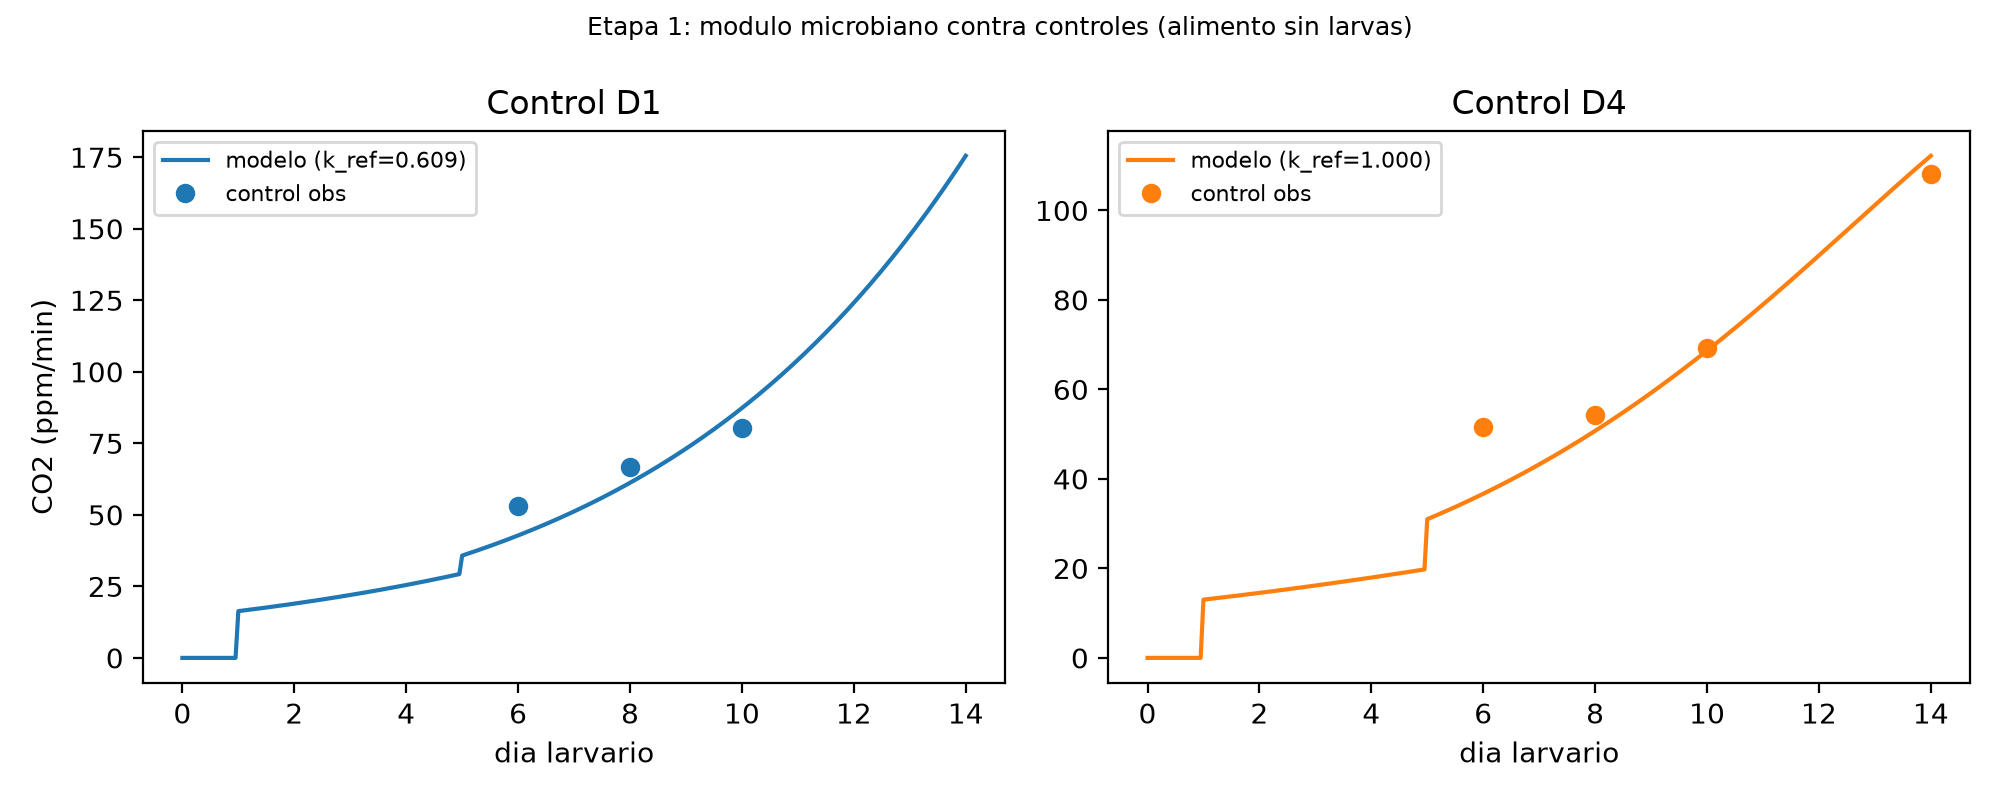
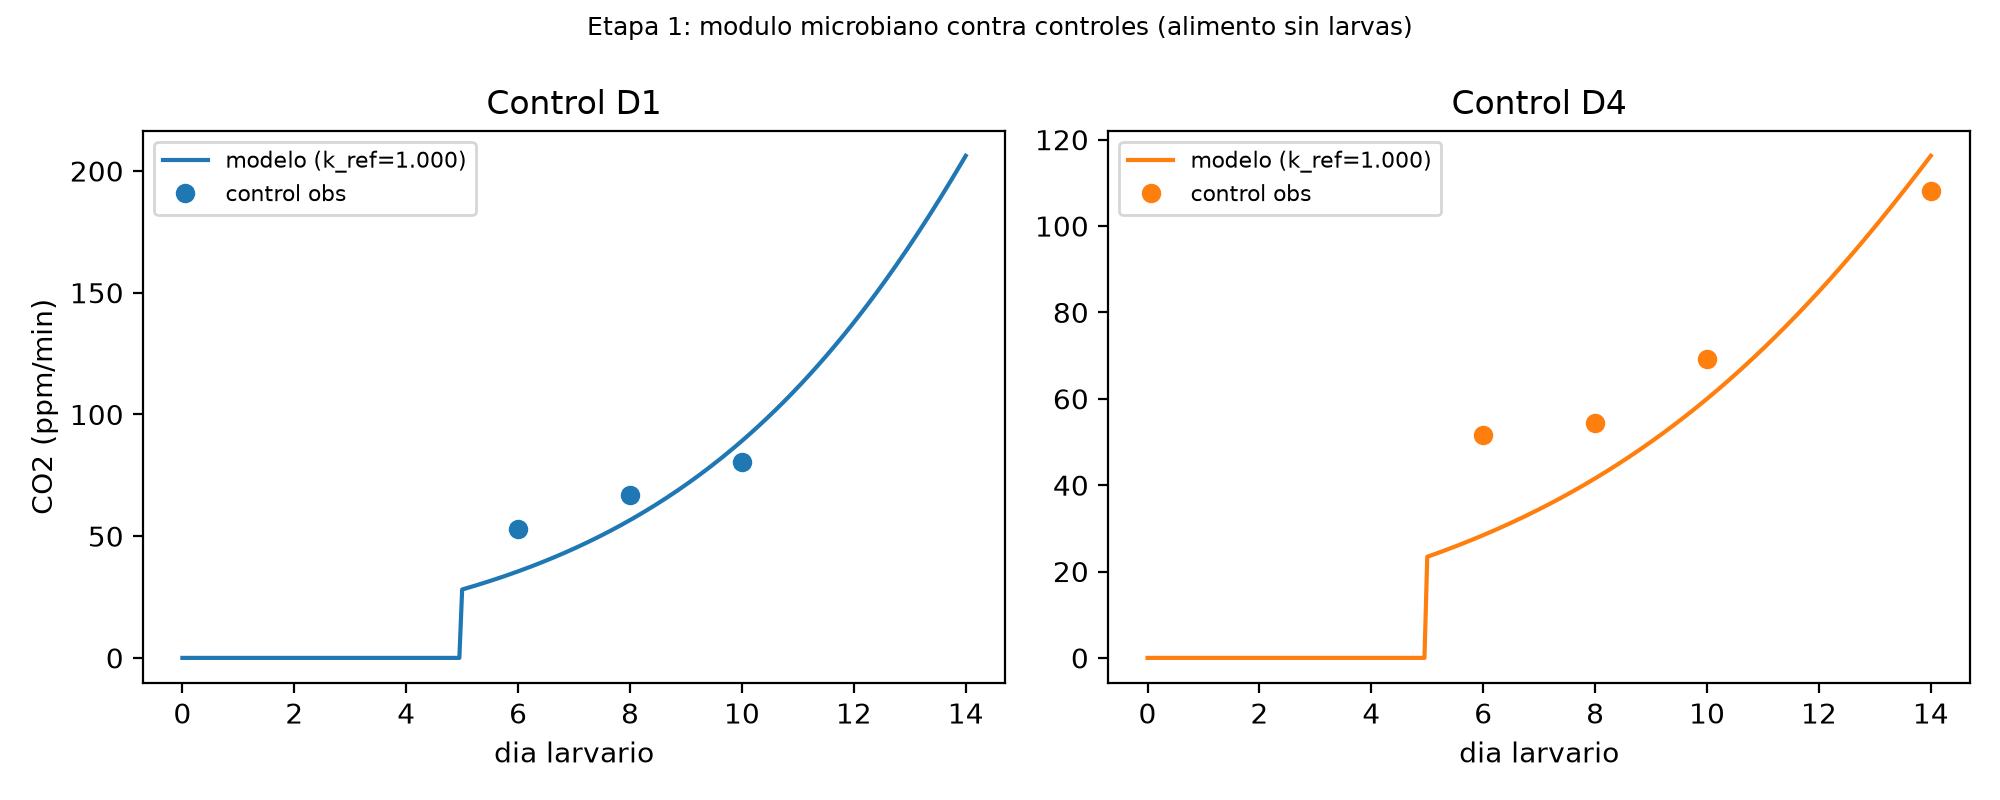
Valores canonicos: alimentacion 500+250 g, T 300.15 K, V_aire 12.1 L; pulsos en t=0

diff --git a/scripts/calibrar_etapa1.py b/scripts/calibrar_etapa1.py
@@ -7,10 +7,10 @@ degradable del carbono del alimento) contra los cierres de control
 reflectante y multinicio.
 
 Fijos por no identificabilidad o por literatura (ver datos/README.md):
-  X0 = 1 g C (los controles informan el producto k*X, no cada factor),
+    X0 = 1 g C (los controles informan el producto k*X, no cada factor),
   Y_X = 0.4, Y_Cmic = 0.4, K_SM = 50 g C, K_D = 50 g C,
   delta_C_alim = 0.47 g C/g MS, Q10 = 2, theta = 0.7, K_theta = 0.15,
-  T = 300 K, V_aire = 13.08 L.
+  T = 300.15 K, V_aire = 12.1 L.
 
 Reglas: si un optimo queda en la frontera de su cota, se reporta como tal
 (la cota encierra el rango fisicamente plausible; tocarla es un resultado,
@@ -31,11 +31,11 @@ from scipy.optimize import least_squares
 from modelo import ParametrosLecho, carbono_a_ppm_min, tasas_lecho
 
 # Condiciones del montaje
-PULSOS = [(1.0, 250.0), (5.0, 250.0)]
+PULSOS = [(0.0, 500.0), (5.0, 250.0)]
 MS_DIETA = {"D1": 0.863, "D4": 0.803}
-T_K = 300.0
+T_K = 300.15
 T_C = T_K - 273.15
-V_AIRE_L = 13.08
+V_AIRE_L = 12.1
 DELTA_C_ALIM = 0.47
 T_FIN = 14.0
 DIA_MONTAJE_SEP = 3
@@ -73,7 +73,7 @@ def simular_control(dieta, k_ref, delta_CS, t_eval):
         return [micro.dD_C, micro.dX]
 
     y = np.array([0.0, X0_G_C])
-    cortes = [0.0] + [d for d, _ in PULSOS] + [T_FIN]
+    cortes = sorted(set([0.0] + [d for d, _ in PULSOS] + [T_FIN]))
     pulsos = dict(PULSOS)
     ts, ys = [], []
     for a, b in zip(cortes[:-1], cortes[1:]):

diff --git a/scripts/calibrar_etapa2.py b/scripts/calibrar_etapa2.py
@@ -60,12 +60,12 @@ from modelo import (
 # Condiciones del montaje
 # Primer pulso en t = 0: las larvas llegaron con contenido intestinal
 # de la crianza (decision documentada); segundo pulso dia larvario 5.
-PULSOS = [(0.0, 250.0), (5.0, 250.0)]
+PULSOS = [(0.0, 500.0), (5.0, 250.0)]
 MS_DIETA = {"D1": 0.863, "D4": 0.803}
 N_LARVAS = 700
-T_K = 300.0
+T_K = 300.15
 T_C = T_K - 273.15
-V_AIRE_L = 13.08
+V_AIRE_L = 12.1
 DELTA_C_ALIM = 0.47
 F_MS = 0.325
 T_FIN = 14.0
